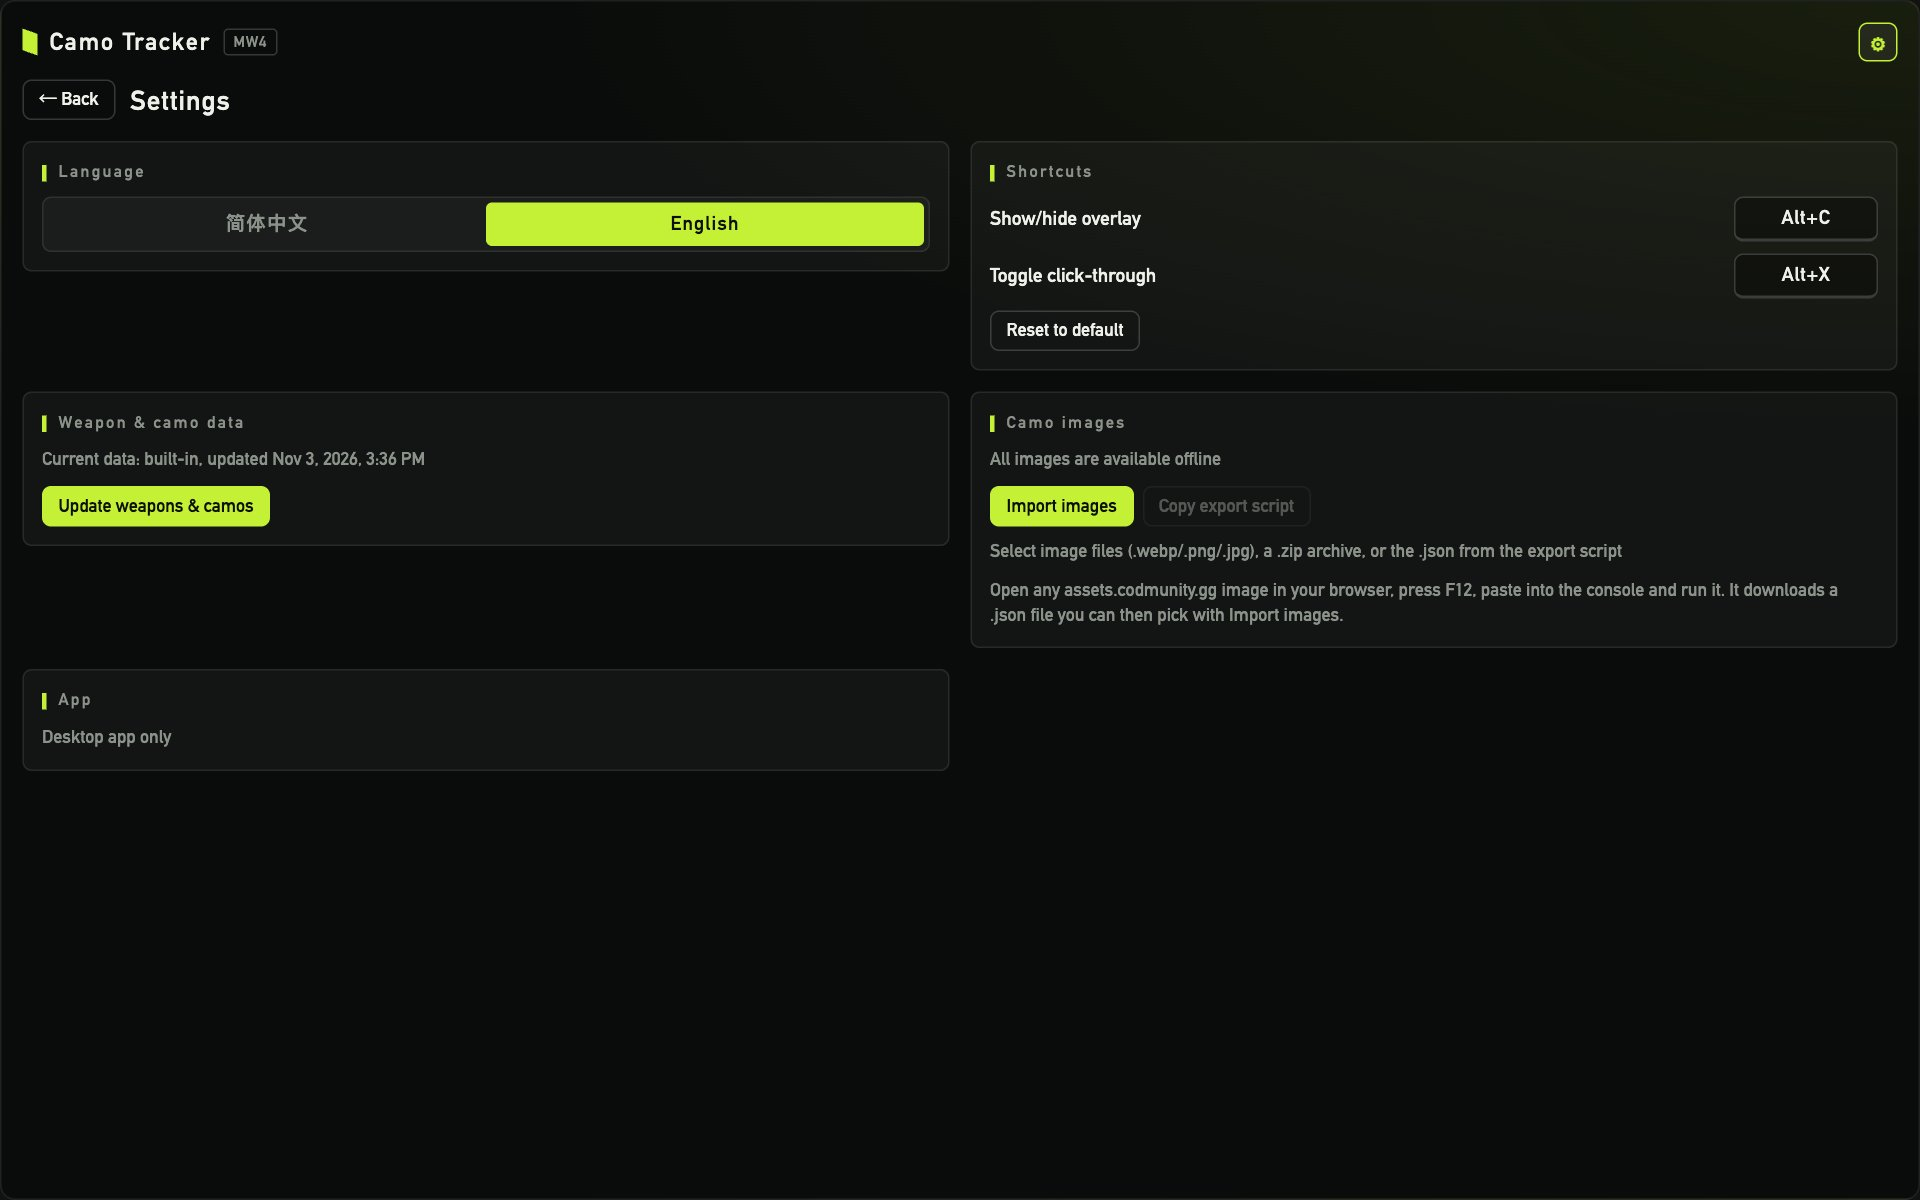
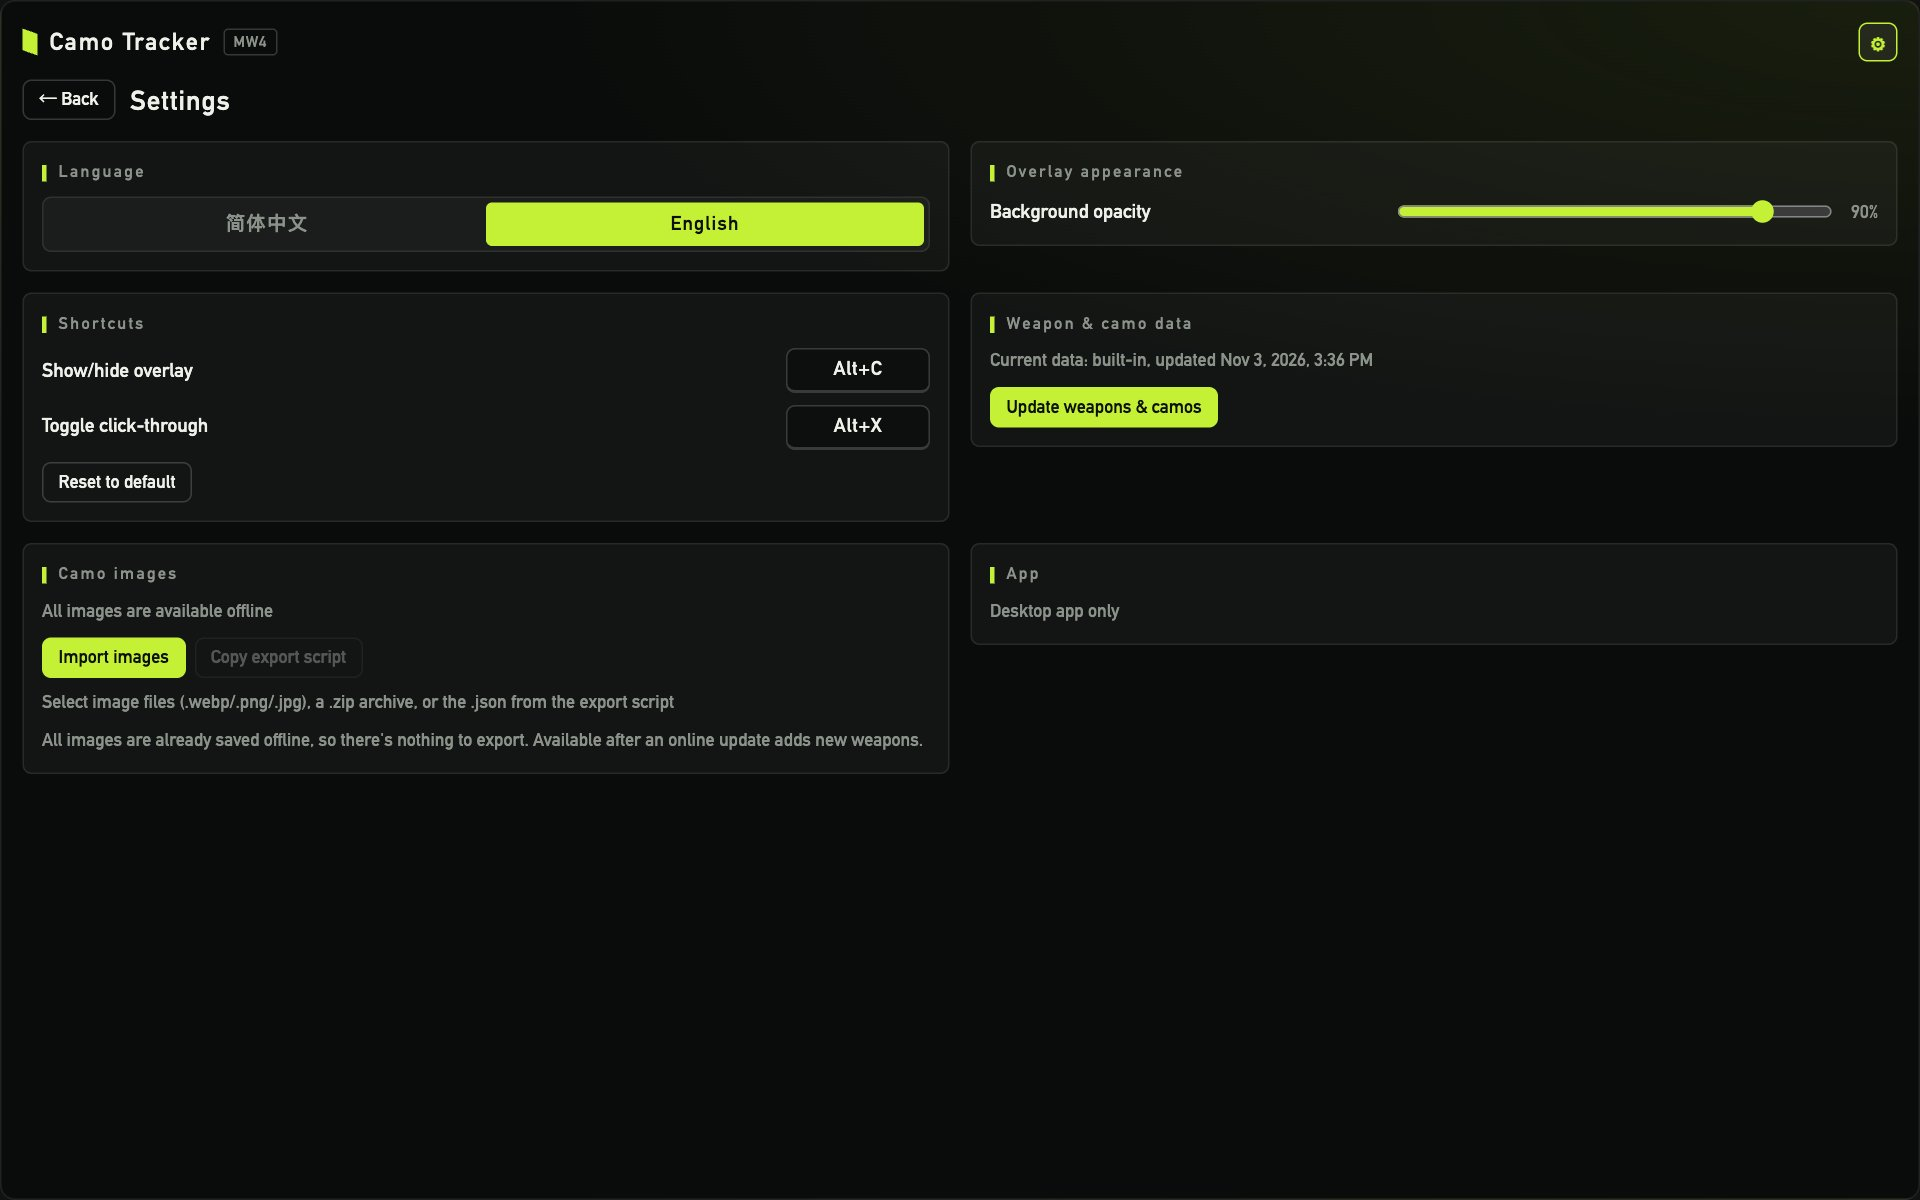
docs: 补充浮层截图与外观调节说明

diff --git a/README.en.md b/README.en.md
@@ -14,11 +14,14 @@
 
 </div>
 
-![Home](docs/screenshots/home-en.jpg)
+![The overlay in game](docs/screenshots/overlay-en.jpg)
+
+<p align="center"><sub>The overlay sits on top of the game as a translucent, always-on-top window, with adjustable background opacity and size</sub></p>
 
 ## Features
 
 - **In-game overlay**: a transparent, always-on-top window. `Alt+C` shows or hides it and `Alt+X` toggles click-through, so you never have to leave the game to check progress
+- **Adjustable look**: set background opacity from 30% to 100%; drag the bottom-right corner to resize, and size and position are remembered
 - **Favorite challenges**: pin the camos you're grinding to the home screen; once checked off, each is replaced by that weapon's next camo
 - **Mode-aware requirements**: Multiplayer and DMZ share completion, and switching modes shows each mode's own challenge
 - **Prerequisite auto-check**: checking a military camo fills in the earlier military camos; checking Gold (or any completionist camo) fills in every earlier camo on that weapon
@@ -27,6 +30,8 @@
 - **Online data updates**: when new weapons drop, pull the latest weapons and camos from codmunity in one click
 - **Auto-update**: check for a new version in Settings and install it in place
 
+![Home](docs/screenshots/home-en.jpg)
+
 <table>
   <tr>
     <td width="50%"><img src="docs/screenshots/detail-en.jpg" alt="Weapon details" /></td>
@@ -34,7 +39,7 @@
   </tr>
   <tr>
     <td align="center">Weapon details: Military / Special / Completionist groups, ☆ to favorite, check when done</td>
-    <td align="center">Settings: language, shortcuts, data update, image import, app updates</td>
+    <td align="center">Settings: language, appearance, shortcuts, data update, image import, app updates</td>
   </tr>
 </table>
 
@@ -53,8 +58,9 @@
 | `Alt+X` | Toggle click-through: mouse input goes to the game and the overlay shows only your favorite challenges |
 | ☆ | Favorite a camo in weapon details; favorites appear at the top of the home screen |
 | Checkbox | Mark a camo as done; unchecking only affects that camo |
+| Bottom-right corner | Drag to resize the overlay; drag the title bar to move it |
 
-- Shortcuts can be re-recorded in Settings
+- Shortcuts and background opacity can be changed in Settings
 - Run the game in **borderless windowed** or windowed mode; the overlay can't draw over exclusive fullscreen
 - The tracker is just a separate always-on-top window. It **does not inject into the game or read game memory**
 
@@ -74,7 +80,7 @@ Stack: Tauri 2 · React 19 · TypeScript · Vite · zod · Vitest. The Windows i
 Push a version tag and GitHub Actions builds the Windows installer and publishes it to Releases:
 
 ```bash
-git tag v0.2.1 && git push origin v0.2.1
+git tag v1.0.0 && git push origin v1.0.0
 ```
 
 Bump the version in `package.json`, `src-tauri/tauri.conf.json` and `src-tauri/Cargo.toml` first.

diff --git a/README.md b/README.md
@@ -14,11 +14,14 @@
 
 </div>
 
-![首页](docs/screenshots/home-zh.jpg)
+![游戏中的浮层](docs/screenshots/overlay-zh.jpg)
+
+<p align="center"><sub>浮层以半透明置顶窗口显示在游戏画面上，背景透明度与窗口大小均可调节</sub></p>
 
 ## 功能
 
 - **游戏内浮层**：透明置顶窗口，`Alt+C` 呼出 / 隐藏，`Alt+X` 切换点击穿透，打游戏时不用切屏查进度
+- **外观可调**：背景不透明度 30%–100% 可调；拖动右下角调整窗口大小，大小与位置自动记住
 - **收藏挑战**：把正在刷的迷彩收藏到首页；勾选完成后自动切换到该武器的下一个迷彩
 - **按模式显示要求**：多人游戏与 DMZ 共享完成状态，切换模式即可看到对应模式的挑战要求
 - **前置迷彩联动**：勾选军事迷彩会补齐之前的军事迷彩，勾选黄金等完成者迷彩会补齐该武器之前的全部迷彩
@@ -27,6 +30,8 @@
 - **在线更新数据**：新武器上线后，在设置中一键从 codmunity 拉取最新的武器与迷彩
 - **自动升级**：设置中检查更新，有新版本可直接下载安装
 
+![首页](docs/screenshots/home-zh.jpg)
+
 <table>
   <tr>
     <td width="50%"><img src="docs/screenshots/detail-zh.jpg" alt="武器详情" /></td>
@@ -34,7 +39,7 @@
   </tr>
   <tr>
     <td align="center">武器详情：按军事 / 特殊 / 完成者分组，☆ 收藏、勾选完成</td>
-    <td align="center">设置：语言、快捷键、数据更新、图片导入、检查更新</td>
+    <td align="center">设置：语言、外观、快捷键、数据更新、图片导入、检查更新</td>
   </tr>
 </table>
 
@@ -53,8 +58,9 @@
 | `Alt+X` | 切换点击穿透：开启后鼠标操作穿透到游戏，浮层只显示「收藏的挑战」 |
 | ☆ | 在武器详情中收藏迷彩，收藏的迷彩显示在首页最上方 |
 | 勾选框 | 标记迷彩完成；取消勾选只影响该迷彩本身 |
+| 右下角拖动 | 调整浮层窗口大小；拖动顶部标题栏移动位置 |
 
-- 快捷键可在设置中录制修改
+- 快捷键与背景不透明度可在设置中修改
 - 游戏需使用 **无边框窗口化** 或窗口化，独占全屏下浮层无法覆盖在游戏画面上
 - 本工具只是一个独立的置顶窗口，**不注入游戏进程、不读取游戏内存**
 
@@ -74,7 +80,7 @@ pnpm test && pnpm lint && pnpm typecheck
 推送版本标签即可由 GitHub Actions 构建 Windows 安装包并发布到 Releases：
 
 ```bash
-git tag v0.2.1 && git push origin v0.2.1
+git tag v1.0.0 && git push origin v1.0.0
 ```
 
 发版前先同步修改 `package.json`、`src-tauri/tauri.conf.json` 与 `src-tauri/Cargo.toml` 中的版本号。
